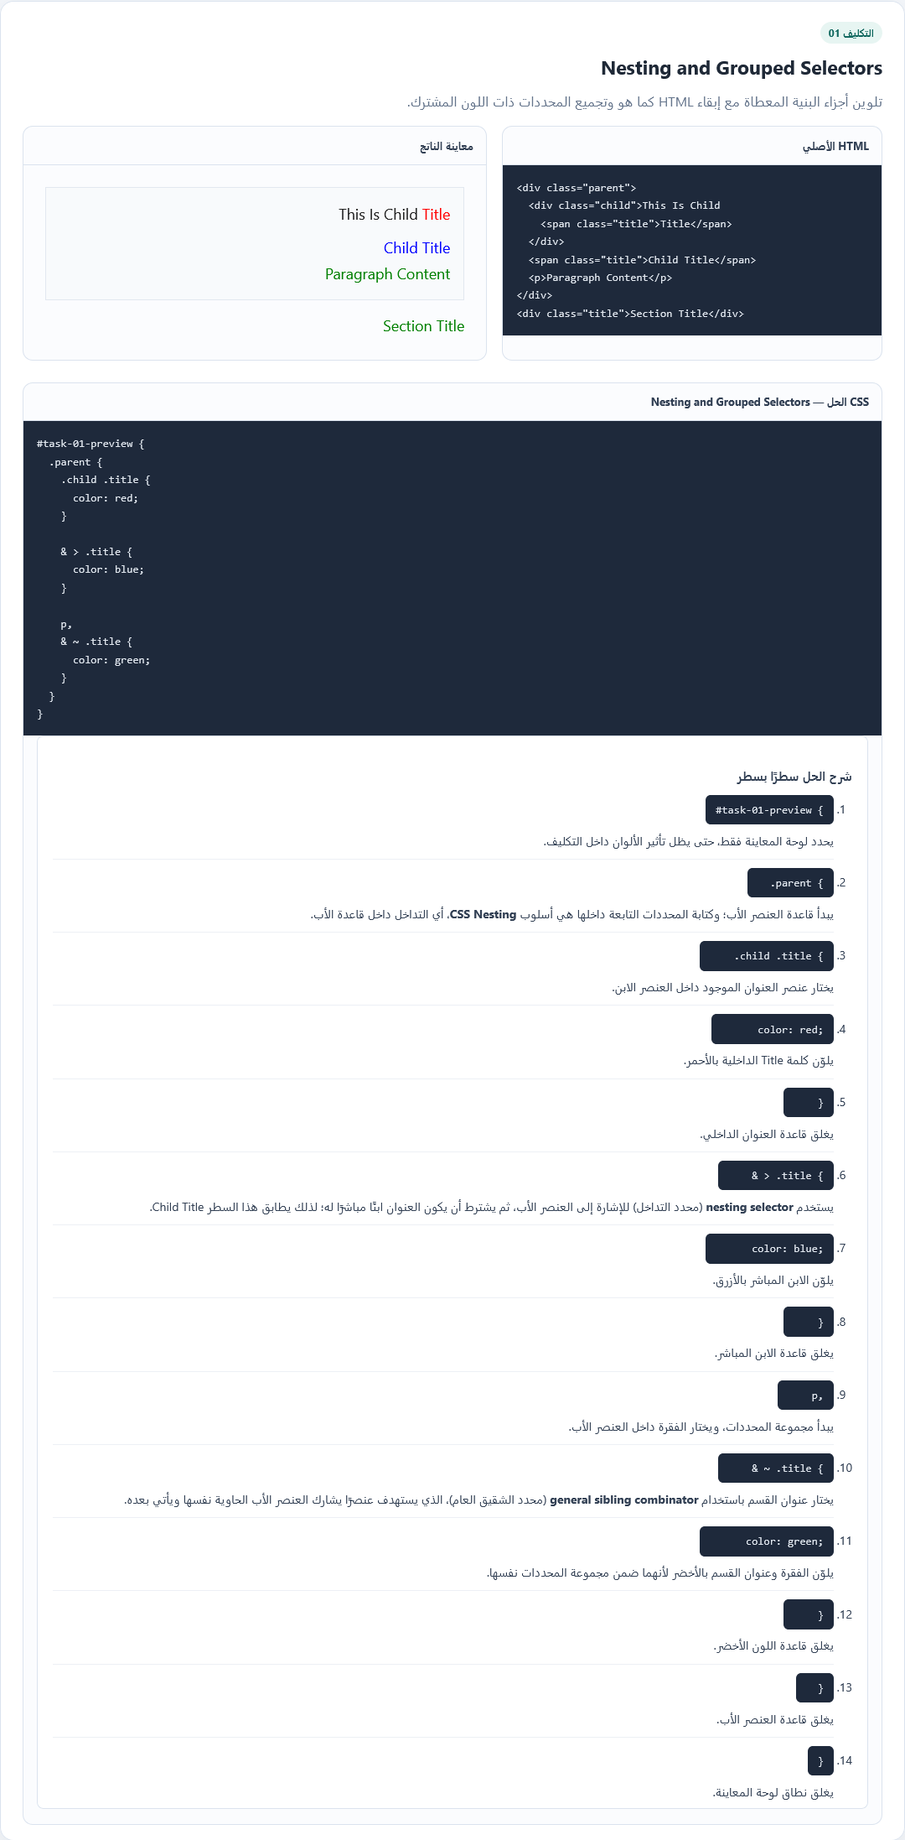
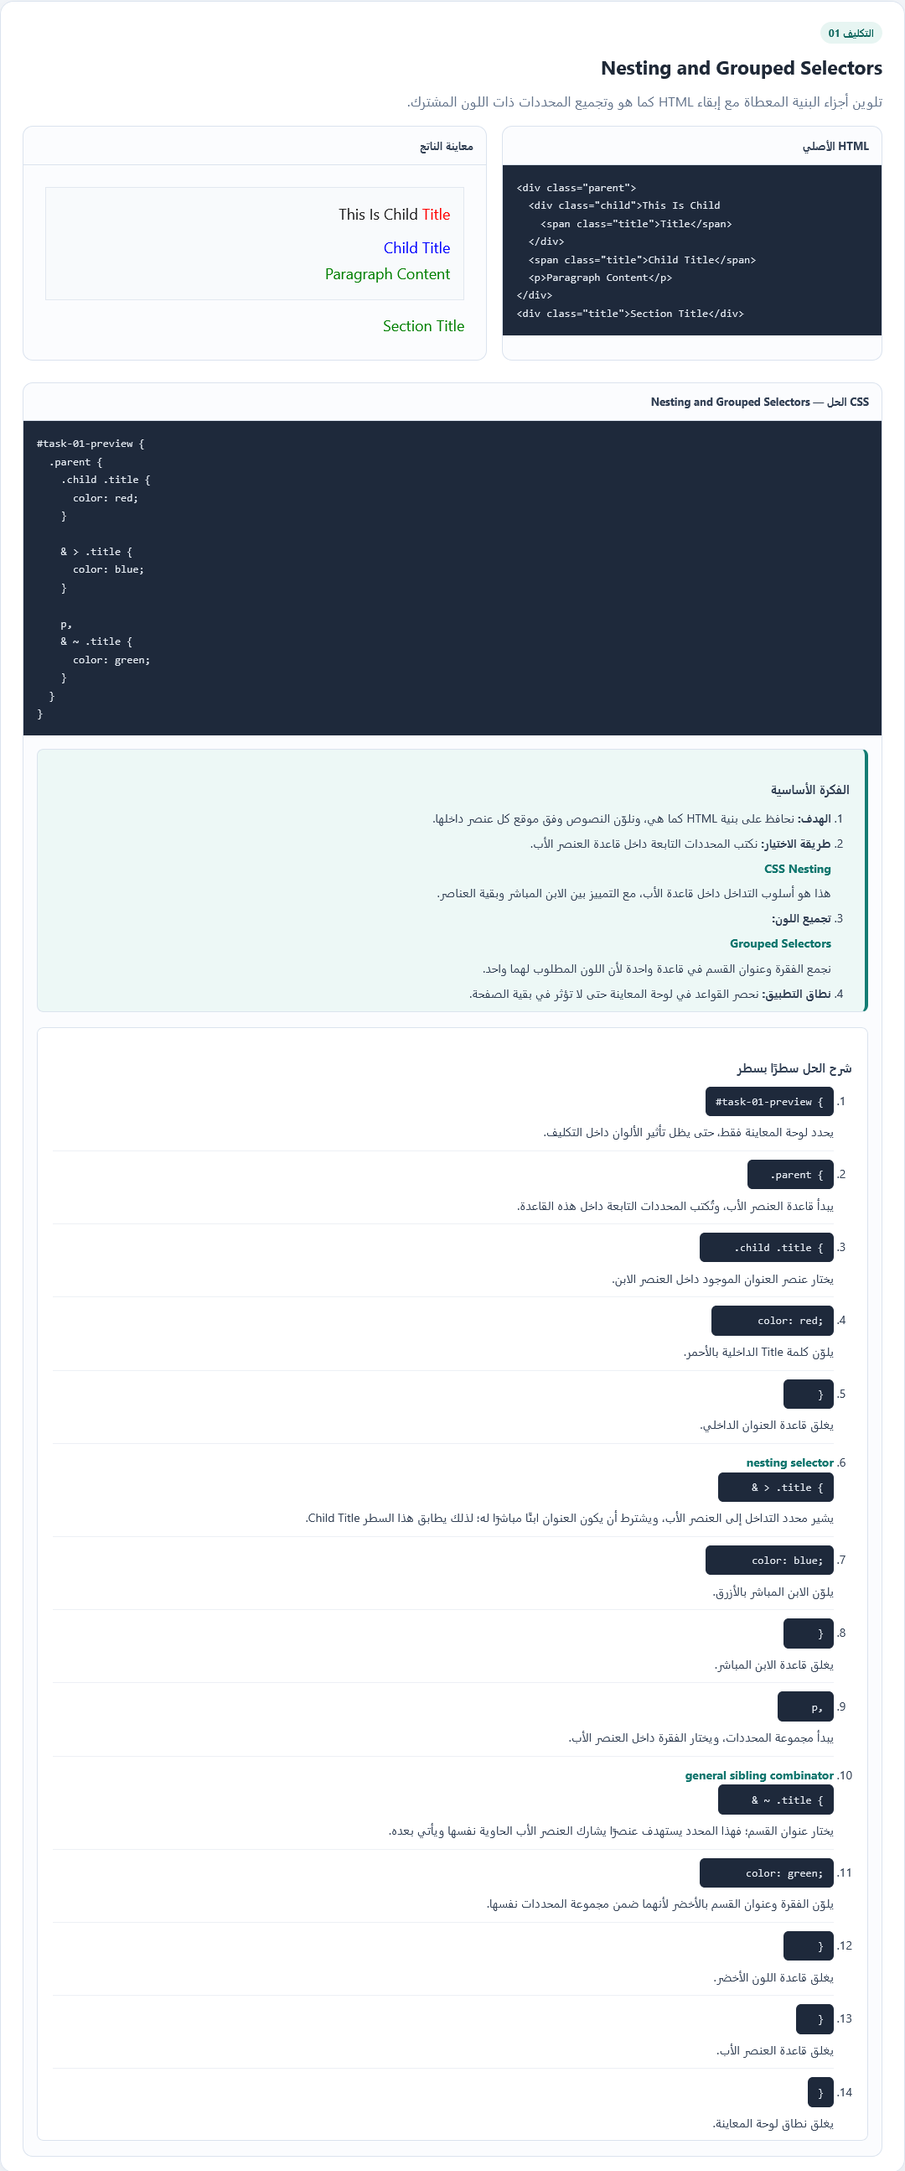
Add core idea before line by line solutions

diff --git a/main_obsidian/vibe_coding/Elzero Frontend/CSS/04 - CSS Nesting, Dimensions, and Overflow/CSS Nesting Dimensions Overflow Assignments 13-16.html b/main_obsidian/vibe_coding/Elzero Frontend/CSS/04 - CSS Nesting, Dimensions, and Overflow/CSS Nesting Dimensions Overflow Assignments 13-16.html
@@ -278,6 +278,48 @@
       margin-bottom: 0;
     }
 
+    .solution-core-idea {
+      margin: 16px 16px 18px;
+      padding: 14px 18px 10px;
+      border: 1px solid var(--line);
+      border-right: 4px solid var(--accent);
+      border-radius: 8px;
+      background: #edf8f6;
+      color: #334155;
+      font-size: 14px;
+    }
+
+    .solution-core-idea h4 {
+      margin-bottom: 10px;
+      font-size: 15px;
+    }
+
+    .solution-core-idea ol {
+      margin: 0;
+      padding-right: 22px;
+      padding-left: 0;
+    }
+
+    .solution-core-idea li {
+      margin-bottom: 6px;
+    }
+
+    .solution-core-idea li:last-child {
+      margin-bottom: 0;
+    }
+
+    .solution-core-idea li p {
+      margin: 6px 0 0;
+    }
+
+    .solution-core-idea .technical-term,
+    .solution-explanation .technical-term {
+      color: #0f766e;
+      direction: ltr;
+      font-weight: 700;
+      text-align: right;
+    }
+
     .source-link {
       display: inline-block;
       margin-top: 10px;
@@ -390,19 +432,28 @@
     }
   }
 }</pre>
+        <div class="solution-core-idea">
+          <h4>الفكرة الأساسية</h4>
+          <ol>
+            <li><strong>الهدف:</strong> نحافظ على بنية HTML كما هي، ونلوّن النصوص وفق موقع كل عنصر داخلها.</li>
+            <li><strong>طريقة الاختيار:</strong> نكتب المحددات التابعة داخل قاعدة العنصر الأب.<p class="technical-term" lang="en">CSS Nesting</p><p>هذا هو أسلوب التداخل داخل قاعدة الأب، مع التمييز بين الابن المباشر وبقية العناصر.</p></li>
+            <li><strong>تجميع اللون:</strong><p class="technical-term" lang="en">Grouped Selectors</p><p>نجمع الفقرة وعنوان القسم في قاعدة واحدة لأن اللون المطلوب لهما واحد.</p></li>
+            <li><strong>نطاق التطبيق:</strong> نحصر القواعد في لوحة المعاينة حتى لا تؤثر في بقية الصفحة.</li>
+          </ol>
+        </div>
         <div class="solution-explanation">
           <h4>شرح الحل سطرًا بسطر</h4>
           <ol>
             <li><pre>#task-01-preview {</pre><p>يحدد لوحة المعاينة فقط، حتى يظل تأثير الألوان داخل التكليف.</p></li>
-            <li><pre>  .parent {</pre><p>يبدأ قاعدة العنصر الأب؛ وكتابة المحددات التابعة داخلها هي أسلوب <strong>CSS Nesting</strong>، أي التداخل داخل قاعدة الأب.</p></li>
+            <li><pre>  .parent {</pre><p>يبدأ قاعدة العنصر الأب، وتُكتب المحددات التابعة داخل هذه القاعدة.</p></li>
             <li><pre>    .child .title {</pre><p>يختار عنصر العنوان الموجود داخل العنصر الابن.</p></li>
             <li><pre>      color: red;</pre><p>يلوّن كلمة <span lang="en" dir="ltr">Title</span> الداخلية بالأحمر.</p></li>
             <li><pre>    }</pre><p>يغلق قاعدة العنوان الداخلي.</p></li>
-            <li><pre>    &amp; &gt; .title {</pre><p>يستخدم <strong>nesting selector</strong> (محدد التداخل) للإشارة إلى العنصر الأب، ثم يشترط أن يكون العنوان ابنًا مباشرًا له؛ لذلك يطابق هذا السطر <span lang="en" dir="ltr">Child Title</span>.</p></li>
+            <li><p class="technical-term" lang="en">nesting selector</p><pre>    &amp; &gt; .title {</pre><p>يشير محدد التداخل إلى العنصر الأب، ويشترط أن يكون العنوان ابنًا مباشرًا له؛ لذلك يطابق هذا السطر <span lang="en" dir="ltr">Child Title</span>.</p></li>
             <li><pre>      color: blue;</pre><p>يلوّن الابن المباشر بالأزرق.</p></li>
             <li><pre>    }</pre><p>يغلق قاعدة الابن المباشر.</p></li>
             <li><pre>    p,</pre><p>يبدأ مجموعة المحددات، ويختار الفقرة داخل العنصر الأب.</p></li>
-            <li><pre>    &amp; ~ .title {</pre><p>يختار عنوان القسم باستخدام <strong>general sibling combinator</strong> (محدد الشقيق العام)، الذي يستهدف عنصرًا يشارك العنصر الأب الحاوية نفسها ويأتي بعده.</p></li>
+            <li><p class="technical-term" lang="en">general sibling combinator</p><pre>    &amp; ~ .title {</pre><p>يختار عنوان القسم؛ فهذا المحدد يستهدف عنصرًا يشارك العنصر الأب الحاوية نفسها ويأتي بعده.</p></li>
             <li><pre>      color: green;</pre><p>يلوّن الفقرة وعنوان القسم بالأخضر لأنهما ضمن مجموعة المحددات نفسها.</p></li>
             <li><pre>    }</pre><p>يغلق قاعدة اللون الأخضر.</p></li>
             <li><pre>  }</pre><p>يغلق قاعدة العنصر الأب.</p></li>

diff --git a/.agents/skills/assignment-solver/SKILL.md b/.agents/skills/assignment-solver/SKILL.md
@@ -12,6 +12,9 @@ description: "استخدمها لحل الواجبات والتمارين بال
 - اكتب الشرح بالعربية البسيطة، وأبقِ المصطلحات التقنية بأسمائها الإنجليزية مثل `selector` و`class` و`id`. أضف شرحًا عربيًا موجزًا عند أول ظهور من دون استبدال الاسم الإنجليزي بترجمة عربية.
 - اجعل كل جملة شرح تبدأ بكلام عربي؛ بذلك يحدد Obsidian اتجاه الفقرة من اليمين إلى اليسار تلقائيًا. لا تبدأ الفقرة بمصطلح إنجليزي أو محدد CSS.
 - لتجنب اضطراب اتجاه الجملة وعلامات الترقيم، ضع المصطلح الإنجليزي في عنوان أو سطر مستقل، ثم اشرح معناه في فقرة عربية منفصلة. ضع أمثلة مثل `class="title"` و`.title` في أسطر مستقلة عند الإمكان، ولا تحشر العبارات الإنجليزية بين كلمات الجملة العربية.
+- قبل الشرح سطرًا بسطر، أضف قسمًا منظمًا بعنوان «الفكرة الأساسية» يوضح الهدف، والعلاقات أو المحددات المهمة، وسبب اختيار طريقة الحل، وكيف تحافظ على قيود السؤال. اجعل الفكرة بالعربية البسيطة وتسبق الشرح التفصيلي.
+- اعرض الكود الكامل في كتلة كود مستقلة باتجاه القراءة من اليسار إلى اليمين. بعده اشرح الفكرة الأساسية، ثم اشرح الحل سطرًا بسطر: ضع كل سطر كود في كتلة مستقلة باتجاه اليسار إلى اليمين، وضع فقرة الشرح العربية منفصلة تحته مباشرة باتجاه اليمين إلى اليسار. لا تضع مقتطفات الكود داخل فقرة الشرح؛ اشرح وظيفة السطر بالعربية من دون خلط الاتجاهين. اشرح أقواس الفتح والإغلاق عند الحاجة، وبيّن النطاق الذي تغلقه.
+- اتبع الترتيب نفسه في المحادثة، وملاحظة Obsidian، وصفحة HTML المرئية إن أُنشئت: الكود الكامل، ثم الفكرة الأساسية المنظمة، ثم شرح كل سطر مع كوده المستقل وشرحه العربي تحته.
 - استخدم Markdown العادي وصناديق Obsidian الأصلية. لا تكتب وسوم HTML للتحكم بالاتجاه مثل `<p dir="rtl">` أو `<bdi dir="ltr">` داخل الملاحظة؛ قد تظهر ككود حرفي في المحرر. لا تضف محارف اتجاه خفية أو `CSS` مخصصًا. اترك كتل الشيفرة والعناوين الإنجليزية بالاتجاه الطبيعي من اليسار إلى اليمين.
 - اترك `WikiLinks` (روابط Obsidian الداخلية) بصيغة Markdown العادية، وتأكد من وجود وجهتها. اجعل نص الرابط الظاهر عربيًا إذا كان ضمن فقرة عربية.
 - ابدأ الشرح بالعربية، لكن اكتب عنوان التكليف والمصطلحات الفنية بصيغتها الإنجليزية الأصلية، مثل `CSS Selectors — Class, ID, and Type`. اترك كتل الشيفرة باتجاهها المعتاد من اليسار إلى اليمين.
@@ -33,7 +36,7 @@ description: "استخدمها لحل الواجبات والتمارين بال
 ## شكل ملاحظة التكليف
 
 1. ابدأ بسؤال واضح في صندوق تنبيه `callout` (كتلة مميزة بصريًا) ظاهر، مثل `> [!question] السؤال`، وأدرج نص السؤال أو المثال المطلوب كما أرسله المستخدم.
-2. ضع الحل في صندوق تنبيه `callout` قابل للطي افتراضيًا كي يظهر بالنقر، مثل `> [!success]- الإجابة وشرح الحل — اضغط لفتحه`. ضمّن الإجابة والكود ثم شرحًا يربط كل جزء بالمطلوب.
+2. ضع الحل في صندوق تنبيه `callout` قابل للطي افتراضيًا كي يظهر بالنقر، مثل `> [!success]- الإجابة وشرح الحل — اضغط لفتحه`. اعرض الكود الكامل أولًا في كتلة مستقلة، ثم الفكرة الأساسية المنظمة، ثم الشرح سطرًا بسطر. اجعل كل سطر كود في كتلة مستقلة من اليسار إلى اليمين، وفقرة شرحه العربية تحتها مباشرة من اليمين إلى اليسار؛ لا تخلط الكود داخل فقرة الشرح.
 3. استخدم الأنواع الدلالية الأصلية في Obsidian للألوان، مثل `question` للسؤال و`success` للحل و`info` للتوضيح. الألوان الافتراضية قد تتغير حسب سمة Obsidian (`theme`: نمط ألوان الواجهة)؛ لا تضف CSS مخصصًا إلا إذا طلبه المستخدم.
 4. اجعل السؤال ظاهرًا والحل قابلًا للفتح في الملاحظة. اعرض الحل كاملًا في المحادثة حتى يتمكن المستخدم من مراجعته مباشرة.
 

diff --git a/main_obsidian/vibe_coding/Elzero Frontend/CSS/04 - CSS Nesting, Dimensions, and Overflow/01 - CSS Nesting and Grouped Selectors.md b/main_obsidian/vibe_coding/Elzero Frontend/CSS/04 - CSS Nesting, Dimensions, and Overflow/01 - CSS Nesting and Grouped Selectors.md
@@ -46,105 +46,129 @@ aliases:
 > }
 > ```
 >
+> **الفكرة الأساسية**
+>
+> **الهدف**
+>
+> نحافظ على بنية HTML كما هي، ونلوّن النصوص وفق موقع كل عنصر داخلها.
+>
+> **طريقة الاختيار**
+>
+> **CSS Nesting**
+>
+> نستخدم هذا الأسلوب لكتابة قواعد العناصر التابعة داخل قاعدة العنصر الأب، مع التمييز بين الابن المباشر وبقية العناصر.
+>
+> **تجميع اللون**
+>
+> **Grouped Selectors**
+>
+> نجمع الفقرة وعنوان القسم في قاعدة واحدة لأن اللون المطلوب لهما واحد.
+>
+> **نطاق التطبيق**
+>
+> نطبّق المحددات على البنية المطلوبة كما هي، ونترك HTML دون تعديل.
+>
 > **شرح الحل سطرًا بسطر**
 >
-> **1. نطاق المعاينة**
->
-> ```css
-> #task-01-preview {
-> ```
->
-> يحدد هذا السطر لوحة المعاينة فقط، حتى يظل تأثير الألوان داخل التكليف.
->
-> **2. قاعدة العنصر الأب**
+> **1. قاعدة العنصر الأب**
 >
 > ```css
 > .parent {
 > ```
 >
-> يبدأ قاعدة العنصر الأب؛ وكتابة المحددات التابعة داخلها هي أسلوب **CSS Nesting** (التداخل داخل قاعدة الأب).
+> يفتح نطاق العنصر الأب؛ وستُكتب المحددات التابعة داخله.
 >
-> **3. محدد العنوان الداخلي**
+> **2. محدد العنوان الداخلي**
 >
 > ```css
-> .child .title {
+>   .child .title {
 > ```
 >
-> يختار عنصر العنوان الموجود داخل العنصر الابن.
+> يختار العنوان الموجود داخل العنصر الابن.
 >
-> **4. لون العنوان الداخلي**
+> **3. لون العنوان الداخلي**
 >
 > ```css
-> color: red;
+>     color: red;
 > ```
 >
-> يلوّن كلمة `Title` الداخلية بالأحمر.
+> يلوّن كلمة Title الداخلية بالأحمر.
 >
-> **5. إغلاق قاعدة العنوان الداخلي**
+> **4. إغلاق قاعدة العنوان الداخلي**
 >
 > ```css
-> }
+>   }
 > ```
 >
-> يغلق القاعدة التي اختارت العنوان الداخلي.
+> يغلق قاعدة العنوان الداخلي.
 >
-> **6. محدد الابن المباشر**
+> **5. محدد الابن المباشر**
+>
+> **nesting selector**
 >
 > ```css
-> & > .title {
+>   & > .title {
 > ```
 >
-> يستخدم هذا السطر **nesting selector** (محدد التداخل) للإشارة إلى العنصر الأب، ثم يشترط أن يكون العنوان ابنًا مباشرًا له؛ لذلك يطابق جملة Child Title.
+> يشير محدد التداخل إلى العنصر الأب، ويشترط أن يكون العنوان ابنًا مباشرًا له؛ لذلك يطابق جملة Child Title.
 >
-> **7. لون الابن المباشر**
+> **6. لون الابن المباشر**
 >
 > ```css
-> color: blue;
+>     color: blue;
 > ```
 >
 > يلوّن الابن المباشر بالأزرق.
 >
-> **8. إغلاق قاعدة الابن المباشر**
+> **7. إغلاق قاعدة الابن المباشر**
 >
 > ```css
-> }
+>   }
 > ```
 >
 > يغلق قاعدة الابن المباشر.
 >
-> **9. بداية مجموعة المحددات**
+> **8. بداية مجموعة المحددات**
 >
 > ```css
-> p,
+>   p,
 > ```
 >
 > يبدأ هذا السطر مجموعة المحددات، ويختار الفقرة داخل العنصر الأب.
 >
-> **10. محدد عنوان القسم**
+> **9. محدد عنوان القسم**
+>
+> **general sibling combinator**
 >
 > ```css
-> & ~ .title {
+>   & ~ .title {
 > ```
 >
-> يختار عنوان القسم باستخدام **general sibling combinator** (محدد الشقيق العام)، الذي يستهدف عنصرًا يشارك العنصر الأب الحاوية نفسها ويأتي بعده.
+> يختار عنوان القسم؛ فهذا المحدد يستهدف عنصرًا يشارك العنصر الأب الحاوية نفسها ويأتي بعده.
 >
-> **11. اللون المشترك**
+> **10. اللون المشترك**
 >
 > ```css
-> color: green;
+>     color: green;
 > ```
 >
 > يلوّن الفقرة وعنوان القسم بالأخضر لأنهما ضمن مجموعة المحددات نفسها.
 >
-> **12. إغلاق القواعد**
+> **11. إغلاق قاعدة اللون الأخضر**
+>
+> ```css
+>   }
+> ```
+>
+> يغلق القاعدة التي طبقت اللون الأخضر على المحددين.
+>
+> **12. إغلاق قاعدة العنصر الأب**
 >
 > ```css
 > }
-> }
-> }
 > ```
 >
-> يغلق القوس الأول قاعدة اللون الأخضر، والثاني قاعدة العنصر الأب، والثالث نطاق المعاينة.
+> يغلق نطاق العنصر الأب بعد انتهاء قواعد العناصر التابعة.
 >
 > لم تتغير أي عقدة في HTML.
 >
